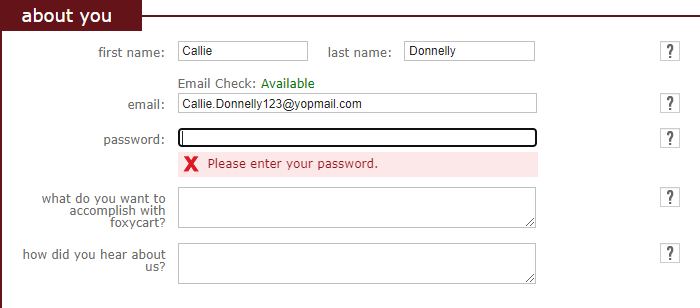
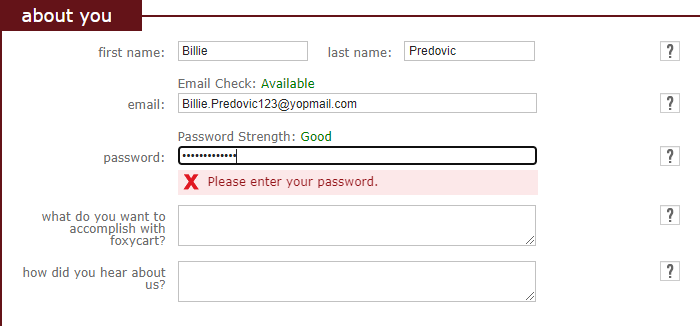
wdio add multitab tests

diff --git a/tests/pages/foxy/foxy.signup.page.ts b/tests/pages/foxy/foxy.signup.page.ts
@@ -1,6 +1,7 @@
 import {$} from '@wdio/globals'
 import {Faker,fakerEN_US} from '@faker-js/faker';
 import allureReporter from '@wdio/allure-reporter'
+import foxyNewstorePage from './foxy.newstore.page';
 
 
 var Fake = fakerEN_US;
@@ -13,7 +14,7 @@ class FoxySignUpPage{
        return $("div[id='email_found']>span");
     }
 
-
+    
 
 
    public async OpenFoxyApp(){
@@ -21,7 +22,7 @@ class FoxySignUpPage{
    }
 
 
-    public async SignUpNewUser(){
+    public async EnterAboutYouData(){
        
       let fName = Fake.person.firstName();
       let lName = Fake.person.lastName();
@@ -32,17 +33,44 @@ class FoxySignUpPage{
       await $("[id='email']").setValue(newEmail)
       await $("[id='pwd']").click();
       await expect(this.EmailAvailibilityCheck).toHaveText("Available"); 
-      
-      //await $.takeElementScreenshot(("//form[@id='signup']/fieldset")[0],false);
-
-      // allureReporter.addAttachment("Aboutyou",await $$("//form[@id='signup']/fieldset")[0].takeScreenshot(),"image/png");
-
-      
       await $("[id='foxy_desire']").click();
       await $("fieldset:nth-child(2)").click()
+      await $("[id='pwd']").setValue("Test@12341234");
       allureReporter.addAttachment("Screenshot",await browser.takeScreenshot(),"image/png")
-
+      
     }
+
+    public async EnterConsiderYourselfData(){
+      await $("[id='is_programmer']").click();
+      await $("[id='is_developer']").click();
+      await $("[id='is_designer']").click();
+      await $("[id='is_merchant']").click();
+      
+    }
+
+    public async EnterStoreData(){
+      
+      let storeName = Fake.commerce.productMaterial()+'33'
+
+      await $("[id='store_name']").setValue(storeName)
+      await $("[id='store_domain']").setValue(storeName)
+      //terms and condition checkbox
+      await $(".row > .label_checkbox").click();
+      
+    }
+
+    public async ClickCaptcha(){
+      await browser.switchToFrame(0)
+      await $(".recaptcha-checkbox-border").click()
+      await browser.pause(2000)
+      await browser.switchWindow('Admin - FoxyCart')
+    }
+
+    public async SubmitStoreData(){
+      await $("[id='next']").click()
+    }
+
+
 
 }
 

diff --git a/tests/specs/test.foxy.signup.ts b/tests/specs/test.foxy.signup.ts
@@ -1,20 +1,15 @@
 import {$,browser} from '@wdio/globals'
 import FoxySignUpPage from '../pages/foxy/foxy.signup.page'
-
 import {delay,generateRandomInteger,generateTimeToken1,generateTimeToken, basePath, joinUserPath} from '../utils/auto.helper'
-import path from 'path'
 import allureReporter from '@wdio/allure-reporter'
-
-
-
-
-
+import foxyNewstorePage from '../pages/foxy/foxy.newstore.page'
 
 describe("Basic Foxy Cart Tests",()=>{
     it("Signup new user",async ()=>{
         await FoxySignUpPage.OpenFoxyApp();
-        await FoxySignUpPage.SignUpNewUser();
+        await FoxySignUpPage.EnterAboutYouData()
         await delay(3000)
+        
     })
 
     it("take element screenshot",async()=>{
@@ -26,6 +21,20 @@ describe("Basic Foxy Cart Tests",()=>{
         allureReporter.addAttachment("element",await ele.saveScreenshot(p),"image/png");
         
     })
+
+    it("enter other store data",async ()=>{
+        await FoxySignUpPage.EnterConsiderYourselfData()
+        await FoxySignUpPage.EnterStoreData()
+        await FoxySignUpPage.ClickCaptcha();
+        await FoxySignUpPage.SubmitStoreData();
+        await delay(5000)
+    })
+
+    it("logout foxy store app",async ()=>{
+        await foxyNewstorePage.LogoutFoxyApp();
+        await delay(5000)
+    })
+
 })
 
 

diff --git a/tests/specs/test.multitabs.ts b/tests/specs/test.multitabs.ts
@@ -1,0 +1,30 @@
+import {$,browser} from '@wdio/globals'
+
+describe("Multi tabs", () => {
+    it("multiple browser tabs / windows", async () => {
+       // open url
+       await browser.url("https://google.com");
+       await browser.pause(2000);
+      
+       await browser.newWindow("https://webdriver.io");
+       await browser.pause(2000);
+       
+       await browser.execute((url) => { window.open(url); }, "http://yahoo.com");
+       await browser.pause(2000);
+       
+       await browser.execute((url) => { window.open(url); }, "http://twitter.com");
+       await browser.pause(2000);
+       
+       await browser.switchWindow("google.com");
+       await browser.pause(2000);
+       
+       await browser.switchWindow("webdriver.io");
+       await browser.pause(2000);
+       
+       await browser.switchWindow("yahoo.com");
+       await browser.pause(2000);
+       
+       await browser.switchWindow("twitter.com");
+       await browser.pause(2000);
+    });
+  });

diff --git a/tests/pages/foxy/foxy.newstore.page.ts b/tests/pages/foxy/foxy.newstore.page.ts
@@ -1,0 +1,11 @@
+import { delay } from "../../utils/auto.helper";
+
+class FoxyNewStorePage{
+
+    public async LogoutFoxyApp(){
+        await $("//*[contains(text(),'Log Out')]").click();
+        await delay(5000);
+    }
+}
+
+export default new FoxyNewStorePage();
